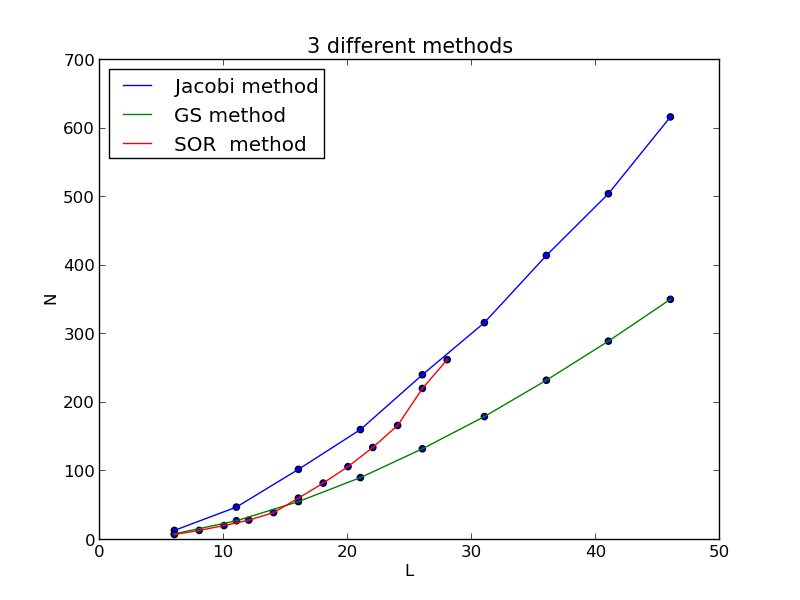
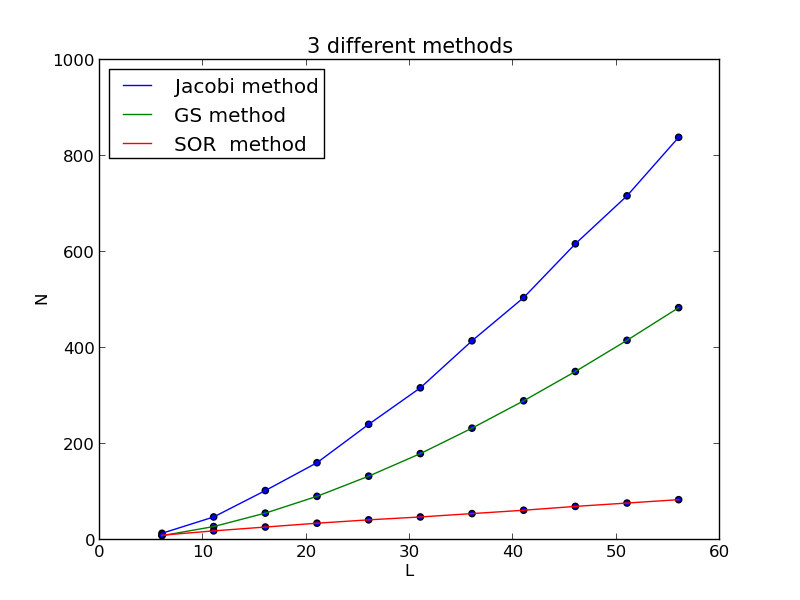
Add files via upload

diff --git a/problem5.7.py b/problem5.7.py
@@ -99,10 +99,9 @@ def SOR(L):
     for i in [a]:
         for j in range(a,b+1):
             V0[j][i]=1.0# j,i
-
     for i in [b]:
         for j in range(a,b+1):
-            V0[j][i]=-1.0
+            V0[j][i]=-1.0 
     VV=[]
     VV.append(V0)
     alpha=2.0/(1+pi/L)
@@ -112,36 +111,57 @@ def SOR(L):
     while 1:
         VV.append(V0)
         for i in range(1,L-1):
-            for j in range(1,L-1):
+            for j in range(1,L-1):               
                 VV[s+1][i][j]=(VV[s][i+1][j]+VV[s+1][i-1][j]+VV[s][i][j+1]+VV[s+1][i][j-1])/4.0
+                VV[s+1][i][j]=alpha*(VV[s+1][i][j]-VV[s][i][j])+VV[s][i][j]        
         for i in [a]:
             for j in range(a,b+1):
                 VV[s+1][j][i]=1.0
         for i in [b]:
             for j in range(a,b+1):
-                VV[s+1][j][i]=-1.0
+                VV[s+1][j][i]=-1.0         
         VV[s]=np.array(VV[s])
         VV[s+1]=np.array(VV[s+1])
         dVV=VV[s+1]-VV[s]
-        VV[s+1]=alpha*dVV+VV[s]
+
         dV=0
         for i in range(1,L-1):
             for j in range(1,L-1):
-                dV=dV+abs(alpha*dVV[i][j])
+
+                 dV=dV+abs(dVV[i][j])
         print dV,L 
-          
         s=s+1
         if dV<error*(L-1)**2 and s>1:
-        #if dV<error and s>1:
             break
     return s
+
+L=[]
+NJ=[]
+NGS=[]
+NSOR=[]
 f=open('problem5.7.txt','w')
-print >> f,'L','J','GS'
-for i in range(6,51,5):
-    print >> f,i,Jacobi(i),GS(i)
-print >> f,'L','SOR'
-for i in range(6,30,2):#without 31
-    print >> f,i,SOR(i)
+print >> f,'L','J','GS','SOR'
+for i in range(6,61,5):
+    J=Jacobi(i)
+    G=GS(i)
+    S=SOR(i)
+    L.append(i)
+    NJ.append(J)
+    NGS.append(G)
+    NSOR.append(S)
+    print >> f,i,J,G,S
 f.close()
-print 'end'
+plot(L,NJ)
+plot(L,NGS)
+plot(L,NSOR)
+scatter(L,NJ)
+scatter(L,NGS)
+scatter(L,NSOR)
+legend(('Jacobi method','GS method','SOR  method'),'upper left')
+title('3 different methods',fontsize=15)
+xlabel('L')
+ylim(0,1000)
+ylabel('N')
+savefig('different methods.png')
+show()
 
